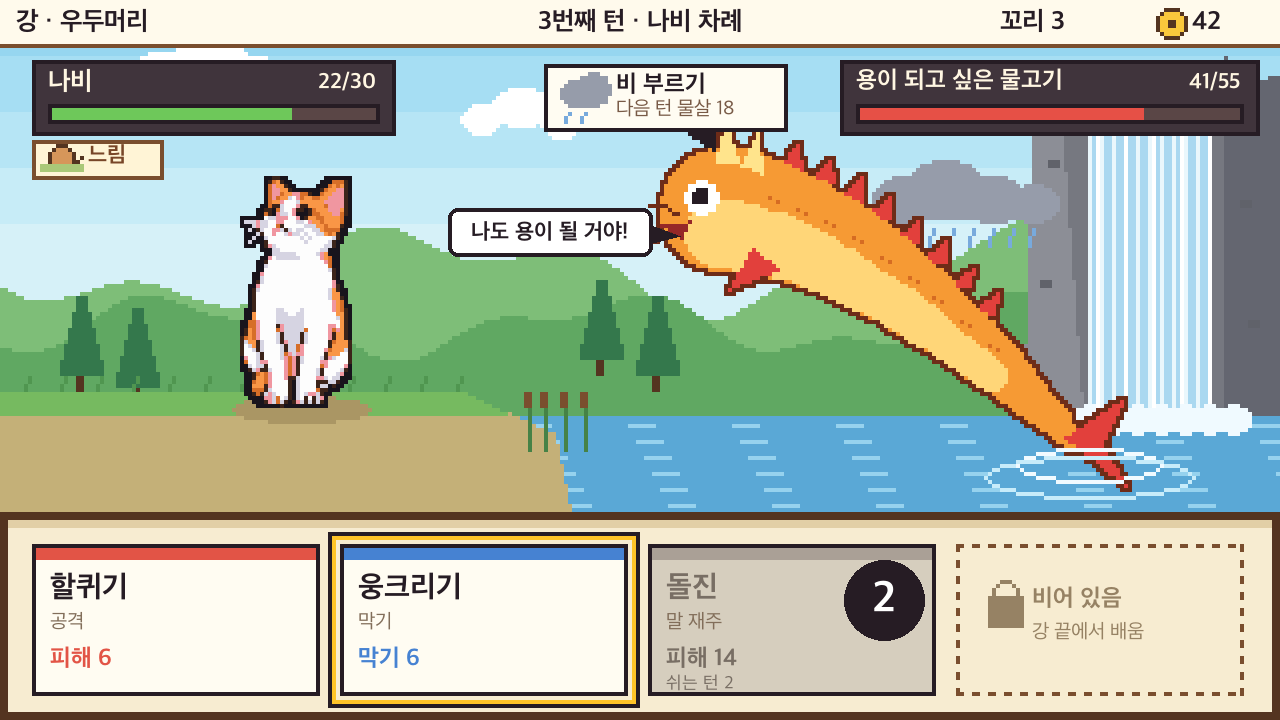
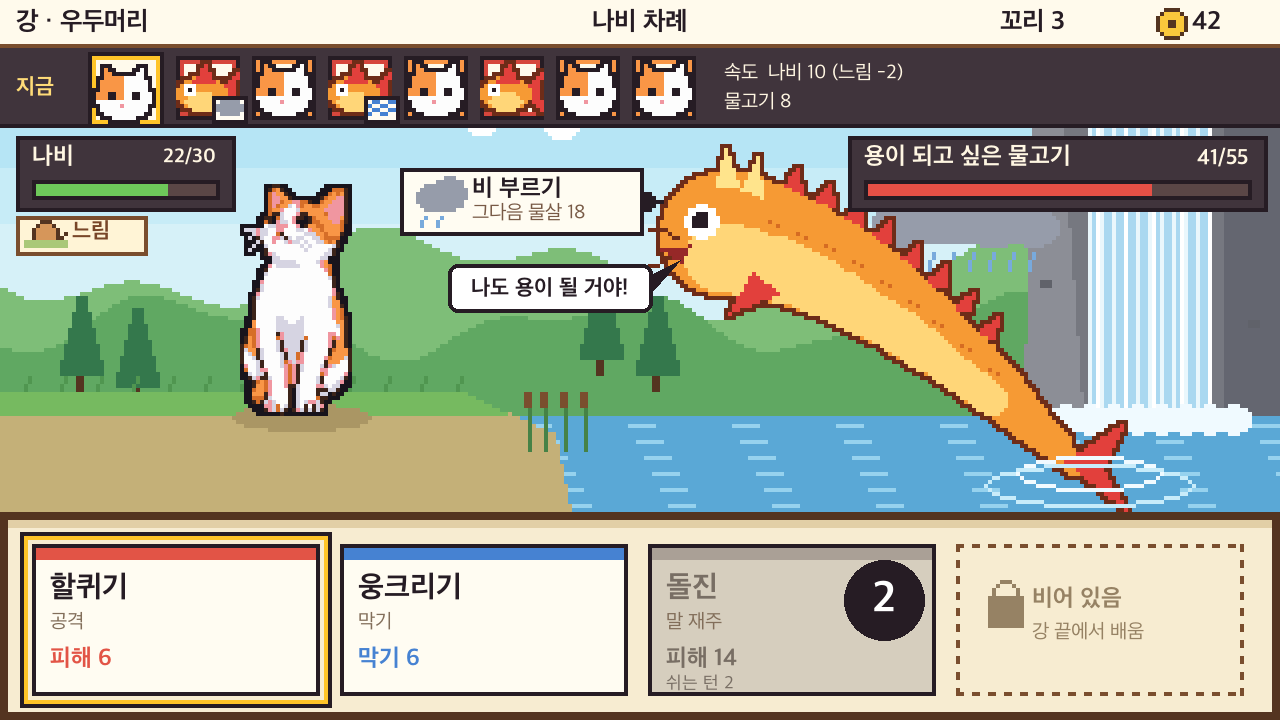
Add speed-based turn order bar as post 6
Following Arcturus, a bar under the top status strip shows the next
eight turns as portraits, with boss actions badged two turns ahead.
Turns now come every 120 / speed, ties go to Nabi, and three skill
branches pull, push or insert turns while slow lowers speed by 2. A
worked river leader example shows why blocking belongs on the turn
right before the big attack. Posts 3-5, the battle mockup and its
Codex prompt are updated to match.

Changed region(s): [[0.0, 0.0, 1.0, 0.7333], [0.0, 0.7333, 0.5, 1.0]]

diff --git a/posts/turn-based-roguelike-turn-order/index.html b/posts/turn-based-roguelike-turn-order/index.html
@@ -1,0 +1,154 @@
+<!doctype html>
+<html lang="ko">
+  <head>
+    <meta charset="UTF-8">
+    <meta name="viewport" content="width=device-width, initial-scale=1">
+    <meta name="description" content="화면 위 순서 막대에 다음 여덟 차례를 보여 주는 속도 기반 턴 순서, 순서를 바꾸는 기술, 우두머리와 막대, 강 우두머리전 예시.">
+    <title>턴제 로그라이크 기획 6 — 순서 막대 · nyimpe</title>
+    <link rel="canonical" href="https://nyimpe.github.io/posts/turn-based-roguelike-turn-order/">
+    <meta property="og:type" content="article">
+    <meta property="og:locale" content="ko_KR">
+    <meta property="og:title" content="턴제 로그라이크 기획 6 — 순서 막대">
+    <meta property="og:description" content="화면 위 순서 막대에 다음 여덟 차례를 보여 주는 속도 기반 턴 순서, 순서를 바꾸는 기술, 우두머리와 막대, 강 우두머리전 예시.">
+    <meta property="og:url" content="https://nyimpe.github.io/posts/turn-based-roguelike-turn-order/">
+    <meta property="og:image" content="https://nyimpe.github.io/images/turn-based-roguelike-screens/03-river-leader.webp">
+    <link rel="icon" type="image/x-icon" href="/favicon.ico">
+    <link rel="stylesheet" href="/src/style.css">
+    <script type="module" src="/src/main.js"></script>
+  </head>
+  <body>
+    <a class="skip-link" href="#content">본문으로 이동</a>
+    <header class="site-header">
+      <div class="header-content">
+        <nav lang="en" class="site-nav" aria-label="Main navigation">
+          <a href="/" aria-label="Home" title="Home"><svg aria-hidden="true" focusable="false" width="20" height="20"><use href="/icons/navigation.svg#home"></use></svg></a>
+          <a href="/?category=game" aria-label="Game" title="Game"><svg aria-hidden="true" focusable="false" width="20" height="20"><use href="/icons/navigation.svg#game"></use></svg></a>
+          <a href="/?category=writing" aria-label="글쓰기" title="글쓰기"><svg aria-hidden="true" focusable="false" width="20" height="20"><use href="/icons/navigation.svg#writing"></use></svg></a>
+          <a href="/about/" aria-label="About" title="About"><svg aria-hidden="true" focusable="false" width="20" height="20"><use href="/icons/navigation.svg#about"></use></svg></a>
+          <a href="https://github.com/nyimpe" aria-label="GitHub" title="GitHub"><svg aria-hidden="true" focusable="false" width="20" height="20"><use href="/icons/navigation.svg#github"></use></svg></a>
+          <button id="theme-toggle" class="theme-toggle" type="button" aria-label="Switch to dark mode" aria-pressed="false" hidden>☾</button>
+        </nav>
+        <hr>
+      </div>
+      <img class="site-cat" src="/cat.png" width="88" height="160" alt="주황색과 흰색의 픽셀아트 고양이">
+    </header>
+    <main id="content">
+      <article class="research-post design-post">
+        <header class="post-header">
+          <h1>턴제 로그라이크 기획 6 — 순서 막대</h1>
+          <time datetime="2026-10-20">2026.10.20</time>
+          <p class="image-credit"><a href="/posts/turn-based-roguelike-combat/">4편 전투와 우두머리</a>의 차례 규칙을 바꾸는 글 · 악튜러스를 참고해 화면 위에 행동 순서를 보여 주는 방식 · 수치는 모두 초안이다</p>
+        </header>
+
+        <p><strong>화면 위 순서 막대에 다음 여덟 차례가 늘 보인다. 속도가 빠를수록 차례가 자주 오고, 기술로 순서를 당기거나 밀 수 있다.</strong> 언제 누가 무엇을 하는지 미리 보이니, 전투는 “이번 차례에 무엇을 할까”에서 “몇 차례 뒤를 어떻게 맞을까”로 넓어진다.</p>
+
+        <nav class="post-toc" aria-label="목차"><ol>
+          <li><a href="#bar">순서 막대</a></li>
+          <li><a href="#speed">속도와 차례</a></li>
+          <li><a href="#change">순서를 바꾸는 법</a></li>
+          <li><a href="#block">막기는 막대를 보고</a></li>
+          <li><a href="#bosses">우두머리와 막대</a></li>
+          <li><a href="#example">강 우두머리전 예시</a></li>
+          <li><a href="#changes">4편에서 바뀐 것</a></li>
+        </ol></nav>
+
+        <section id="bar" aria-labelledby="bar-title">
+          <h2 id="bar-title">순서 막대</h2>
+          <figure class="concept-shot">
+            <a href="/images/turn-based-roguelike-screens/03-river-leader.webp"><img src="/images/turn-based-roguelike-screens/03-river-leader.webp" width="1280" height="720" loading="lazy" decoding="async" alt="전투 화면. 맨 위 상태 줄 아래에 어두운 순서 막대가 있고, 왼쪽부터 금테를 두른 나비 얼굴, 비구름 표시가 붙은 물고기, 나비, 물결 표시가 붙은 물고기, 나비, 물고기, 나비, 나비 순서로 얼굴 여덟 개가 놓여 있다. 막대 오른쪽에 속도 나비 10, 물고기 8이 적혀 있다. 아래에서 나비와 물고기가 겨루고, 할퀴기 버튼이 골라져 있다."></a>
+            <figcaption>강 우두머리전. 막대 맨 왼쪽이 지금 차례이고, 물고기 칸의 작은 그림이 그 차례에 할 행동이다.</figcaption>
+          </figure>
+          <ul>
+            <li><strong>자리:</strong> 맨 위 상태 줄 바로 아래, 화면 너비 전체에 걸친 어두운 막대다.</li>
+            <li><strong>칸:</strong> 지금 차례를 포함해 여덟 칸이다. 맨 왼쪽이 지금이고 금테를 두른다. 나비는 주황 테두리, 요괴는 빨강 테두리다.</li>
+            <li><strong>행동 그림:</strong> 요괴 칸 모서리에 그 차례에 할 행동이 작은 그림으로 붙는다. 잡요괴는 바로 다음 차례만, 우두머리는 두 차례까지 보인다.</li>
+            <li><strong>미리 보기:</strong> 기술 버튼에 손을 올리면, 그 기술을 썼을 때 바뀌는 막대가 흐리게 겹쳐 보인다.</li>
+            <li><strong>속도 표시:</strong> 막대 오른쪽 끝에 지금 싸우는 모두의 속도가 적힌다. 느림처럼 속도가 바뀌면 함께 바뀐다.</li>
+          </ul>
+        </section>
+
+        <section id="speed" aria-labelledby="speed-title">
+          <h2 id="speed-title">속도와 차례</h2>
+          <ul>
+            <li><strong>간격 = 120 ÷ 속도.</strong> 차례를 마치면 다음 차례는 간격만큼 뒤에 온다. 속도 10이면 12마다, 속도 12면 10마다 온다.</li>
+            <li><strong>시간이 가장 적게 남은 쪽이 먼저 움직인다.</strong> 같으면 나비가 먼저다.</li>
+            <li><strong>전투가 시작되면</strong> 모두 자기 간격의 절반에서 출발한다. 빠른 쪽이 첫 차례를 잡는다.</li>
+            <li><strong>쉬는 턴(쿨타임)은 그대로 둔다.</strong> 세는 단위는 나비 자신의 차례다.</li>
+          </ul>
+          <div class="table-scroll" role="region" aria-label="속도 표" tabindex="0"><table>
+            <thead><tr><th scope="col">누구</th><th scope="col">속도</th><th scope="col">간격</th></tr></thead>
+            <tbody>
+              <tr><th scope="row">나비</th><td>10</td><td>12</td></tr>
+              <tr><th scope="row">나비 + 말 재주</th><td>12</td><td>10</td></tr>
+              <tr><th scope="row">잡요괴</th><td>8~12 (도깨비 12, 귀구 10, 금두꺼비 8)</td><td>15~10</td></tr>
+              <tr><th scope="row">마을 · 도깨비 김서방</th><td>10</td><td>12</td></tr>
+              <tr><th scope="row">강 · 용이 되고 싶은 물고기</th><td>8</td><td>15</td></tr>
+              <tr><th scope="row">산 · 숨바꼭질 털북숭이</th><td>6</td><td>20</td></tr>
+              <tr><th scope="row">최종 · 꼬리 아홉 큰 고양이</th><td>12, 꼬리를 셋 접을 때마다 +2</td><td>10 → 8.6 → 7.5</td></tr>
+            </tbody>
+          </table></div>
+          <p class="table-note">120은 6, 8, 10, 12, 15, 20으로 나누어떨어져 간격이 정수로 나오도록 고른 수다.</p>
+        </section>
+
+        <section id="change" aria-labelledby="change-title">
+          <h2 id="change-title">순서를 바꾸는 법</h2>
+          <p>3편의 재주 갈래 가운데 세 개에 순서 효과를 붙인다. 다른 재주는 순서를 건드리지 않는다.</p>
+          <div class="table-scroll" role="region" aria-label="순서를 바꾸는 효과" tabindex="0"><table>
+            <thead><tr><th scope="col">효과</th><th scope="col">하는 일</th><th scope="col">어디서 얻나</th></tr></thead>
+            <tbody>
+              <tr><th scope="row">당기기</th><td>내 다음 차례를 5 앞당긴다</td><td>말 재주 · 잰걸음 갈래</td></tr>
+              <tr><th scope="row">밀기</th><td>요괴 하나의 다음 차례를 5 미룬다</td><td>도깨비 재주 · 둔갑 갈래</td></tr>
+              <tr><th scope="row">끼어들기</th><td>막대에 짝꿍 개의 차례를 하나 끼워 넣는다</td><td>개 재주 · 짝꿍 갈래</td></tr>
+              <tr><th scope="row">느림</th><td>속도가 2 줄어든다. 막대의 차례들이 뒤로 밀린다</td><td>요괴의 공격 (물보라 등)</td></tr>
+            </tbody>
+          </table></div>
+        </section>
+
+        <section id="block" aria-labelledby="block-title">
+          <h2 id="block-title">막기는 막대를 보고</h2>
+          <p>막기는 막은 쪽의 다음 차례가 오면 사라진다. 그래서 <strong>큰 공격 바로 앞에 있는 내 차례</strong>에 막아야 한다. 너무 일찍 막으면 공격이 오기 전에 막기가 사라진다. 막대는 그 “바로 앞 차례”를 찾으라고 있는 것이다.</p>
+        </section>
+
+        <section id="bosses" aria-labelledby="bosses-title">
+          <h2 id="bosses-title">우두머리와 막대</h2>
+          <ul>
+            <li><strong>도깨비 김서방:</strong> 숨기를 쓰면 자기 다음 차례까지 막기 10을 두른다. 막대에서 숨기 다음 김서방 칸이 오기 전까지는 세게 쳐도 막힌다.</li>
+            <li><strong>용이 되고 싶은 물고기:</strong> 비 부르기 다음 물고기 칸이 늘 물살 18이다. 막대에 두 칸 모두 보이므로, 그 사이에 있는 내 차례를 찾아 막는다.</li>
+            <li><strong>숨바꼭질 털북숭이:</strong> 속도가 6으로 느려 내 차례가 자주 온다. 대신 숲에 숨으면 자기 다음 차례까지 공격이 닿지 않는다.</li>
+            <li><strong>꼬리 아홉 큰 고양이:</strong> 꼬리 셋을 접을 때마다 속도가 2씩 오른다. 막대에 큰 고양이 얼굴이 점점 촘촘해진다.</li>
+          </ul>
+        </section>
+
+        <section id="example" aria-labelledby="example-title">
+          <h2 id="example-title">강 우두머리전 예시</h2>
+          <p>위 그림의 장면이다. 나비는 말 재주로 속도 12였지만 물보라를 맞아 느림에 걸려 10(간격 12)이 되었다. 물고기는 속도 8(간격 15)이다. 막대에 보이는 순서를 시각으로 풀면 이렇다.</p>
+          <div class="table-scroll" role="region" aria-label="차례 예시" tabindex="0"><table>
+            <thead><tr><th scope="col">시각</th><th scope="col">차례</th><th scope="col">일</th></tr></thead>
+            <tbody>
+              <tr><th scope="row">0</th><td>나비</td><td>할퀴기. 지금 웅크려도 막기가 12에 사라져 물살을 못 막는다</td></tr>
+              <tr><th scope="row">5</th><td style="white-space: nowrap">물고기</td><td>비 부르기</td></tr>
+              <tr><th scope="row">12</th><td>나비</td><td>웅크리기. 막기 6이 다음 내 차례인 24까지 남는다</td></tr>
+              <tr><th scope="row">20</th><td style="white-space: nowrap">물고기</td><td>물살 18. 막기 6을 빼고 12만 받는다</td></tr>
+              <tr><th scope="row">24</th><td>나비</td><td>쉬는 턴이 끝난 돌진</td></tr>
+              <tr><th scope="row">35</th><td style="white-space: nowrap">물고기</td><td>물보라</td></tr>
+            </tbody>
+          </table></div>
+          <p>도깨비 재주의 밀기가 있었다면 시각 0에 물고기를 5 밀 수 있다. 그러면 비 부르기가 10, 물살이 25로 늦춰져 그 전에 나비 차례가 두 번(12, 24) 온다. 한 번 막고 한 번 더 칠 수 있다.</p>
+        </section>
+
+        <section id="changes" aria-labelledby="changes-title">
+          <h2 id="changes-title">4편에서 바뀐 것</h2>
+          <ul>
+            <li><strong>차례 순서:</strong> “나비가 먼저, 그다음 요괴 차례대로”에서 속도에 따른 순서로 바뀌었다.</li>
+            <li><strong>느림:</strong> “쉬는 턴 +1”에서 “속도 −2”로 바뀌었다.</li>
+            <li><strong>3편의 갈래:</strong> 잰걸음, 둔갑, 짝꿍에 순서 효과가 붙었다.</li>
+            <li><strong>그대로인 것:</strong> 한 차례에 기술 하나, 기술 네 개, 쉬는 턴, 막기, 상태 셋, 우두머리의 행동 순서.</li>
+          </ul>
+          <p class="image-credit">그림은 <a href="/posts/turn-based-roguelike-screens/">5편</a>과 같은 방식으로 코드로 그린 픽셀 목업이다. 5편의 전투 화면도 순서 막대가 있는 이 그림으로 바꿨다.</p>
+        </section>
+        <p class="post-back"><a href="/">← 전체 글 목록</a></p>
+      </article>
+    </main>
+    <footer lang="en" class="site-footer">Small things, made and remade. <a href="https://github.com/nyimpe/nyimpe.github.io">Source code</a></footer>
+  </body>
+</html>

diff --git a/posts/turn-based-roguelike-growth/index.html b/posts/turn-based-roguelike-growth/index.html
@@ -59,9 +59,9 @@
           <div class="table-scroll" role="region" aria-label="재주 여섯" tabindex="0"><table class="wide-table">
             <thead><tr><th scope="col">재주</th><th scope="col">하는 일</th><th scope="col">두 갈래</th><th scope="col">길 위에서</th></tr></thead>
             <tbody>
-              <tr><th scope="row">도깨비 재주<br>(<a href="/posts/korean-folklore-research/#cr116">도깨비</a>)</th><td>적을 헷갈리게 해서 하려던 행동을 바꾼다</td><td>둔갑: 적의 모습으로 변해 공격을 피한다<br>방망이: 뚝딱, 무엇이 나올지 모르는 한 방</td><td>상점에서 값을 깎는다</td></tr>
-              <tr><th scope="row">개 재주<br>(<a href="/posts/korean-folklore-research/#cr42">귀구</a>)</th><td>막고, 막은 만큼 되갚는다</td><td>짝꿍: 두 번째 개가 함께 싸운다<br>버티기: 막을수록 단단해진다</td><td>냄새로 이름난 요괴의 종류를 미리 안다</td></tr>
-              <tr><th scope="row">말 재주<br>(<a href="/posts/korean-folklore-research/#cr240">용마</a>)</th><td>먼저 움직이고 여러 번 친다</td><td>돌진: 한 번에 크게 들이받는다<br>잰걸음: 작게 여러 번 찬다</td><td>동네마다 칸 하나를 건너뛸 수 있다</td></tr>
+              <tr><th scope="row">도깨비 재주<br>(<a href="/posts/korean-folklore-research/#cr116">도깨비</a>)</th><td>적을 헷갈리게 해서 하려던 행동을 바꾼다</td><td>둔갑: 적의 모습으로 변해 공격을 피하고, 적의 차례를 민다<br>방망이: 뚝딱, 무엇이 나올지 모르는 한 방</td><td>상점에서 값을 깎는다</td></tr>
+              <tr><th scope="row">개 재주<br>(<a href="/posts/korean-folklore-research/#cr42">귀구</a>)</th><td>막고, 막은 만큼 되갚는다</td><td>짝꿍: 두 번째 개가 순서 막대에 끼어들어 함께 싸운다<br>버티기: 막을수록 단단해진다</td><td>냄새로 이름난 요괴의 종류를 미리 안다</td></tr>
+              <tr><th scope="row">말 재주<br>(<a href="/posts/korean-folklore-research/#cr240">용마</a>)</th><td>먼저 움직이고 여러 번 친다</td><td>돌진: 한 번에 크게 들이받는다<br>잰걸음: 작게 여러 번 차고, 내 차례를 당긴다</td><td>동네마다 칸 하나를 건너뛸 수 있다</td></tr>
               <tr><th scope="row">거북 재주<br>(<a href="/posts/korean-folklore-research/#cr329">현구</a>)</th><td>흰 기운으로 지키고 낫게 한다</td><td>등껍질: 보호막을 두른다<br>흰 기운: 체력을 되찾는다</td><td>쉬는 칸에서 더 많이 회복한다</td></tr>
               <tr><th scope="row">두꺼비 재주<br>(<a href="/posts/korean-folklore-research/#cr43">금섬</a>)</th><td>운이 좋으면 크게 터진다</td><td>대박: 가끔 몇 배로 친다<br>금덩이: 이길 때마다 엽전을 더 번다</td><td>보상 후보가 하나 더 나온다</td></tr>
               <tr><th scope="row">자라 재주<br>(<a href="/posts/korean-folklore-research/#cr322">토주원</a>)</th><td>구슬을 모았다가 한꺼번에 뱉는다</td><td>구슬 뱉기: 모은 만큼 세게 쏜다<br>보답: 구슬을 써서 회복하거나 힘을 올린다</td><td>사건 칸에서 선택지가 하나 더 생긴다</td></tr>

diff --git a/posts/turn-based-roguelike-screens/index.html b/posts/turn-based-roguelike-screens/index.html
@@ -71,13 +71,14 @@
         <section id="battle" aria-labelledby="battle-title">
           <h2 id="battle-title">3. 강 우두머리와의 전투</h2>
           <figure class="concept-shot">
-            <a href="/images/turn-based-roguelike-screens/03-river-leader.webp"><img src="/images/turn-based-roguelike-screens/03-river-leader.webp" width="1280" height="720" loading="lazy" decoding="async" alt="전투 화면. 왼쪽 물가에 고양이 나비가 앉아 있고, 오른쪽 폭포 앞 연못에서 뿔이 난 주황 물고기가 뛰어올라 나도 용이 될 거야!라고 외친다. 물고기 위 말풍선에 비 부르기, 다음 턴 물살 18이 보인다. 아래에는 할퀴기, 웅크리기, 쉬는 턴이 2 남은 돌진, 잠긴 빈칸이 있다."></a>
-            <figcaption>물고기 머리 위에 다음 행동이 보인다. 다음 턴에 물살 18이 오니 웅크리기를 골랐다.</figcaption>
+            <a href="/images/turn-based-roguelike-screens/03-river-leader.webp"><img src="/images/turn-based-roguelike-screens/03-river-leader.webp" width="1280" height="720" loading="lazy" decoding="async" alt="전투 화면. 맨 위에 나비와 물고기의 얼굴 여덟 개가 행동 순서대로 놓인 순서 막대가 있다. 왼쪽 물가에 고양이 나비가 앉아 있고, 오른쪽 폭포 앞 연못에서 뿔이 난 주황 물고기가 뛰어올라 나도 용이 될 거야!라고 외친다. 물고기 옆 말풍선에 비 부르기, 그다음 물살 18이 보인다. 아래에는 골라진 할퀴기, 웅크리기, 쉬는 턴이 2 남은 돌진, 잠긴 빈칸이 있다."></a>
+            <figcaption>맨 위 순서 막대를 보면 물살 앞에 나비 차례가 하나 더 있다. 그래서 지금은 할퀴고, 그 차례에 웅크린다.</figcaption>
           </figure>
           <ul>
-            <li><strong>미리 보기:</strong> “비 부르기 · 다음 턴 물살 18”. 지금은 공격이 오지 않으니, 다음 턴을 대비해 막기를 쌓는다.</li>
+            <li><strong>순서 막대:</strong> 다음 여덟 차례가 얼굴로 보인다. 물고기 칸의 작은 그림이 그 차례의 행동이다. 자세한 규칙은 <a href="/posts/turn-based-roguelike-turn-order/">6편 순서 막대</a>에 있다.</li>
+            <li><strong>미리 보기:</strong> “비 부르기 · 그다음 물살 18”. 지금 웅크리면 막기가 물살 전에 사라지니, 물살 바로 앞의 내 차례에 막는다.</li>
             <li><strong>쉬는 턴:</strong> 돌진은 방금 써서 2턴을 기다려야 한다.</li>
-            <li><strong>상태:</strong> 나비는 물보라에 맞아 <strong>느림</strong>에 걸렸다. 기술의 쉬는 턴이 1씩 늘어난다.</li>
+            <li><strong>상태:</strong> 나비는 물보라에 맞아 <strong>느림</strong>에 걸렸다. 속도가 12에서 10으로 줄어 차례가 늦게 온다.</li>
             <li><strong>빈칸:</strong> 네 번째 기술 칸은 강 끝에서 두 번째 재주를 배우면 채워진다.</li>
           </ul>
         </section>

diff --git a/posts/turn-based-roguelike-combat/index.html b/posts/turn-based-roguelike-combat/index.html
@@ -44,7 +44,7 @@
         <section id="rules" aria-labelledby="rules-title">
           <h2 id="rules-title">전투 규칙</h2>
           <ul>
-            <li><strong>나비 혼자 요괴 1~3마리와 겨룬다.</strong> 나비가 먼저 행동하고, 그다음 요괴들이 차례로 행동한다.</li>
+            <li><strong>나비 혼자 요괴 1~3마리와 겨룬다.</strong> 차례는 속도에 따라 정해지고, 화면 위 순서 막대에 다음 여덟 차례가 보인다. 자세한 규칙은 <a href="/posts/turn-based-roguelike-turn-order/">6편 순서 막대</a>에 있다.</li>
             <li><strong>체력:</strong> 나비는 30에서 시작한다. 전투가 끝나도 체력은 그대로 이어지고, 쉬는 칸에서 채운다.</li>
             <li><strong>기술:</strong> 한 턴에 하나만 쓴다. 기술마다 쉬는 턴(쿨타임)이 있어서, 센 기술은 쓰고 나면 몇 턴 기다려야 한다.</li>
             <li><strong>기술은 네 개까지 든다.</strong> 기본 기술 둘에, 배운 재주마다 하나씩 더한다. 산 끝에서 섞은 기술은 다섯 번째 칸에 든다.</li>
@@ -69,7 +69,7 @@
             <thead><tr><th scope="col">상태</th><th scope="col">효과</th></tr></thead>
             <tbody>
               <tr><th scope="row">헷갈림</th><td>이번 턴의 행동이 다른 행동으로 바뀐다. 요괴에게 걸면 미리 보이던 행동이 바뀐다</td></tr>
-              <tr><th scope="row">느림</th><td>기술의 쉬는 턴이 1씩 늘어난다</td></tr>
+              <tr><th scope="row">느림</th><td>속도가 2 줄어 차례가 늦게 온다</td></tr>
               <tr><th scope="row">보호막</th><td>막기처럼 피해를 줄이지만, 턴이 지나도 사라지지 않는다</td></tr>
             </tbody>
           </table></div>
@@ -105,7 +105,7 @@
 
         <section id="next" aria-labelledby="next-title">
           <h2 id="next-title">다음 글</h2>
-          <p>이 규칙을 화면으로 옮긴 시안은 <a href="/posts/turn-based-roguelike-screens/">5편 플레이 화면 시안</a>에 있다. 재주별 기술의 수치는 그 뒤에 다 붙인다.</p>
+          <p>이 규칙을 화면으로 옮긴 시안은 <a href="/posts/turn-based-roguelike-screens/">5편 플레이 화면 시안</a>에, 속도와 순서 막대는 <a href="/posts/turn-based-roguelike-turn-order/">6편 순서 막대</a>에 있다. 재주별 기술의 수치는 그 뒤에 다 붙인다.</p>
           <p class="image-credit">우두머리 이름은 <a href="/posts/korean-folklore-research/">한국 괴물·귀신</a>의 해당 항목으로 연결된다. 우두머리의 성격과 행동은 이 기획을 위해 새로 붙였다.</p>
         </section>
         <p class="post-back"><a href="/">← 전체 글 목록</a></p>

diff --git a/index.html b/index.html
@@ -30,6 +30,7 @@
       <section id="posts" aria-labelledby="posts-title">
         <h2 id="posts-title">Recent Posts</h2>
         <ol class="post-list" reversed role="list">
+        <li value="18"><span class="post-number">18</span><div class="post-list-entry"><a href="/posts/turn-based-roguelike-turn-order/" lang="ko">턴제 로그라이크 기획 6 — 순서 막대</a><time datetime="2026-10-20">2026.10.20</time></div></li>
         <li value="17"><span class="post-number">17</span><div class="post-list-entry"><a href="/posts/turn-based-roguelike-screens/" lang="ko">턴제 로그라이크 기획 5 — 플레이 화면 시안</a><time datetime="2026-10-20">2026.10.20</time></div></li>
         <li value="16"><span class="post-number">16</span><div class="post-list-entry"><a href="/posts/turn-based-roguelike-combat/" lang="ko">턴제 로그라이크 기획 4 — 전투와 우두머리</a><time datetime="2026-10-20">2026.10.20</time></div></li>
         <li value="15"><span class="post-number">15</span><div class="post-list-entry"><a href="/posts/turn-based-roguelike-growth/" lang="ko">턴제 로그라이크 기획 3 — 재주와 꼬리</a><time datetime="2026-10-20">2026.10.20</time></div></li>

diff --git a/docs/turn-based-roguelike-screens/battle.py b/docs/turn-based-roguelike-screens/battle.py
@@ -199,8 +199,8 @@ def bar(img, x, y, w, ratio, color):
 
 
 SKILLS = [
-    {"name": "할퀴기", "kind": "공격", "line": "피해 6", "color": (226, 84, 70), "state": "ready"},
-    {"name": "웅크리기", "kind": "막기", "line": "막기 6", "color": (70, 130, 210), "state": "selected"},
+    {"name": "할퀴기", "kind": "공격", "line": "피해 6", "color": (226, 84, 70), "state": "selected"},
+    {"name": "웅크리기", "kind": "막기", "line": "막기 6", "color": (70, 130, 210), "state": "ready"},
     {"name": "돌진", "kind": "말 재주", "line": "피해 14", "color": (236, 150, 50), "state": "cooldown", "wait": 2},
     {"name": "비어 있음", "kind": "", "line": "강 끝에서 배움", "color": (180, 170, 150), "state": "locked"},
 ]
@@ -248,45 +248,104 @@ def label_box(img, x0, y0, x1, y1):
     d.rectangle([x0 + 1, y0 + 1, x1 - 1, y1 - 1], fill=(64, 52, 60))
 
 
+def cat_face():
+    face = Image.new("RGBA", (16, 15), (0, 0, 0, 0))
+    f = ImageDraw.Draw(face)
+    f.polygon([(2, 6), (3, 1), (7, 4)], fill=(249, 150, 70))
+    f.polygon([(13, 6), (12, 1), (8, 4)], fill=(253, 253, 253))
+    f.ellipse([1, 3, 14, 13], fill=(253, 253, 253))
+    f.pieslice([1, 3, 14, 13], 180, 270, fill=(249, 150, 70))
+    f.rectangle([4, 7, 5, 8], fill=INK)
+    f.rectangle([10, 7, 11, 8], fill=INK)
+    f.point((7, 10), fill=(240, 150, 160))
+    return outline(face)
+
+
+def fish_face():
+    face = Image.new("RGBA", (16, 15), (0, 0, 0, 0))
+    f = ImageDraw.Draw(face)
+    f.polygon([(10, 7), (15, 3), (14, 7), (15, 12)], fill=(226, 64, 60))
+    f.ellipse([0, 4, 12, 12], fill=(246, 154, 52))
+    f.ellipse([2, 8, 10, 12], fill=(255, 214, 120))
+    f.polygon([(4, 5), (7, 1), (9, 5)], fill=(226, 64, 60))
+    f.rectangle([2, 6, 4, 8], fill=(255, 255, 255))
+    f.point((3, 7), fill=INK)
+    return outline(face, (110, 44, 24))
+
+
+ORDER = [("cat", None), ("fish", "cloud"), ("cat", None), ("fish", "wave"), ("cat", None), ("fish", None), ("cat", None), ("cat", None)]
+
+
+def order_bar(lo):
+    d = ImageDraw.Draw(lo)
+    d.rectangle([0, 12, W, 31], fill=(64, 52, 60))
+    d.line([0, 31, W, 31], fill=INK)
+    faces = {"cat": cat_face(), "fish": fish_face()}
+    rims = {"cat": (249, 150, 70), "fish": (214, 70, 60)}
+    x = 22
+    for i, (who, badge) in enumerate(ORDER):
+        size = 18 if i == 0 else 15
+        y0 = 13 if i == 0 else 14
+        rim = (255, 196, 40) if i == 0 else rims[who]
+        d.rectangle([x, y0, x + size, y0 + size], fill=INK)
+        d.rectangle([x + 1, y0 + 1, x + size - 1, y0 + size - 1], fill=rim)
+        d.rectangle([x + 2, y0 + 2, x + size - 2, y0 + size - 2], fill=(255, 250, 236))
+        face = faces[who]
+        lo.alpha_composite(face, (x + (size + 1 - face.width) // 2, y0 + (size + 1 - face.height) // 2 + 1))
+        if badge:
+            bx, by = x + size - 6, y0 + size - 5
+            d.rectangle([bx, by, bx + 8, by + 6], fill=INK)
+            d.rectangle([bx + 1, by + 1, bx + 7, by + 5], fill=(255, 252, 242))
+            if badge == "cloud":
+                d.ellipse([bx + 1, by + 1, bx + 5, by + 4], fill=(150, 156, 170))
+                d.ellipse([bx + 3, by + 1, bx + 7, by + 4], fill=(150, 156, 170))
+            else:
+                d.line([bx + 1, by + 2, bx + 3, by + 1, bx + 5, by + 2, bx + 7, by + 1], fill=(70, 130, 210))
+                d.line([bx + 1, by + 4, bx + 3, by + 3, bx + 5, by + 4, bx + 7, by + 3], fill=(70, 130, 210))
+        x += size + 4
+    return x
+
+
 def main():
     lo = Image.new("RGBA", (W, H), (0, 0, 0, 255))
     sky(lo)
     hills(lo)
     waterfall(lo)
     pond_and_bank(lo)
-    rain_cloud(lo, 226, 50)
+    rain_cloud(lo, 226, 56)
 
     fish = fish_sprite()
-    lo.alpha_composite(fish, (162, 30))
+    lo.alpha_composite(fish, (162, 36))
     d = ImageDraw.Draw(lo)
-    d.ellipse([254, 112, 290, 120], outline=(240, 250, 255))
-    d.ellipse([246, 114, 298, 124], outline=(200, 236, 250))
+    d.ellipse([254, 114, 290, 122], outline=(240, 250, 255))
+    d.ellipse([246, 116, 298, 126], outline=(200, 236, 250))
 
     cat = outline(cat_sprite(58), (24, 20, 28))
-    d.ellipse([58, 99, 92, 105], fill=(170, 150, 100))
-    lo.alpha_composite(cat, (60, 44))
+    d.ellipse([58, 101, 92, 107], fill=(170, 150, 100))
+    lo.alpha_composite(cat, (60, 46))
 
     hud(lo)
+    bar_end = order_bar(lo)
     panel(lo)
     boxes = skill_buttons(lo)
 
     # name plates with health bars
-    label_box(lo, 8, 15, 98, 33)
-    bar(lo, 12, 26, 82, 22 / 30, (110, 200, 90))
-    label_box(lo, 210, 15, 314, 33)
-    bar(lo, 214, 26, 96, 41 / 55, (230, 80, 70))
+    label_box(lo, 4, 34, 58, 52)
+    bar(lo, 8, 45, 46, 22 / 30, (110, 200, 90))
+    label_box(lo, 212, 34, 316, 52)
+    bar(lo, 216, 45, 96, 41 / 55, (230, 80, 70))
     # slow status chip
-    d.rectangle([8, 35, 40, 44], fill=(255, 244, 214), outline=BROWN)
-    snail(lo, 10, 36)
+    d.rectangle([4, 54, 36, 63], fill=(255, 244, 214), outline=BROWN)
+    snail(lo, 6, 55)
 
-    # intent bubble above the fish head
-    d.rectangle([136, 16, 196, 32], fill=INK)
-    d.rectangle([137, 17, 195, 31], fill=(255, 252, 242))
-    d.polygon([(170, 32), (178, 32), (178, 37)], fill=INK)
-    d.ellipse([140, 20, 148, 26], fill=(150, 156, 170))
-    d.ellipse([144, 18, 152, 26], fill=(150, 156, 170))
-    d.line([142, 28, 141, 30], fill=(120, 170, 220))
-    d.line([146, 28, 145, 30], fill=(120, 170, 220))
+    # intent bubble beside the fish head
+    d.rectangle([100, 42, 160, 58], fill=INK)
+    d.rectangle([101, 43, 159, 57], fill=(255, 252, 242))
+    d.polygon([(160, 47), (160, 53), (165, 50)], fill=INK)
+    d.ellipse([104, 46, 112, 52], fill=(150, 156, 170))
+    d.ellipse([108, 44, 116, 52], fill=(150, 156, 170))
+    d.line([106, 54, 105, 56], fill=(120, 170, 220))
+    d.line([110, 54, 109, 56], fill=(120, 170, 220))
     # coin icon in the HUD
     d.ellipse([289, 2, 296, 9], fill=(250, 200, 60), outline=BROWN_D)
     d.rectangle([292, 5, 293, 6], fill=BROWN_D)
@@ -298,21 +357,25 @@ def main():
         t.text((xy[0] * S, xy[1] * S), s, font=font(size, bold), fill=fill, anchor=anchor)
 
     text((4, 1.6), "강 · 우두머리", 26)
-    text((160, 1.6), "3번째 턴 · 나비 차례", 26, anchor="ma")
+    text((160, 1.6), "나비 차례", 26, anchor="ma")
     text((250, 1.6), "꼬리 3", 26)
     text((298, 1.6), "42", 26)
 
-    text((12, 16.6), "나비", 26, fill=(255, 246, 226))
-    text((94, 17.2), "22/30", 22, fill=(255, 246, 226), anchor="ra")
-    text((22, 35.4), "느림", 22, fill=(120, 70, 40))
-    text((214, 16.6), "용이 되고 싶은 물고기", 24, fill=(255, 246, 226))
-    text((310, 17.2), "41/55", 22, fill=(255, 246, 226), anchor="ra")
-    text((154, 17.6), "비 부르기", 24)
-    text((154, 24.2), "다음 턴 물살 18", 20, fill=(120, 90, 70), bold=False)
+    text((4, 18.4), "지금", 22, fill=(255, 220, 120))
+    text((bar_end + 4, 15.2), "속도  나비 10 (느림 -2)", 20, fill=(255, 246, 226), bold=False)
+    text((bar_end + 4, 22.4), "물고기 8", 20, fill=(255, 246, 226), bold=False)
+
+    text((8, 35.6), "나비", 24, fill=(255, 246, 226))
+    text((54, 36.2), "22/30", 20, fill=(255, 246, 226), anchor="ra")
+    text((18, 54.6), "느림", 22, fill=(120, 70, 40))
+    text((216, 35.6), "용이 되고 싶은 물고기", 24, fill=(255, 246, 226))
+    text((312, 36.2), "41/55", 22, fill=(255, 246, 226), anchor="ra")
+    text((118, 43.6), "비 부르기", 24)
+    text((118, 50.2), "그다음 물살 18", 20, fill=(120, 90, 70), bold=False)
 
     # speech bubble from the fish
-    sx, sy = 112, 52
-    t.polygon([((sx + 50) * S, (sy + 4) * S), ((sx + 58) * S, (sy + 7) * S), ((sx + 50) * S, (sy + 9) * S)], fill=INK)
+    sx, sy = 112, 66
+    t.polygon([((sx + 50) * S, (sy + 3) * S), ((sx + 58) * S, (sy - 1) * S), ((sx + 50) * S, (sy + 8) * S)], fill=INK)
     t.rounded_rectangle([sx * S, sy * S, (sx + 51) * S, (sy + 12) * S], radius=10, fill=(255, 255, 255), outline=INK, width=4)
     t.text(((sx + 25.5) * S, (sy + 6) * S), "나도 용이 될 거야!", font=font(22), fill=INK, anchor="mm")
 
